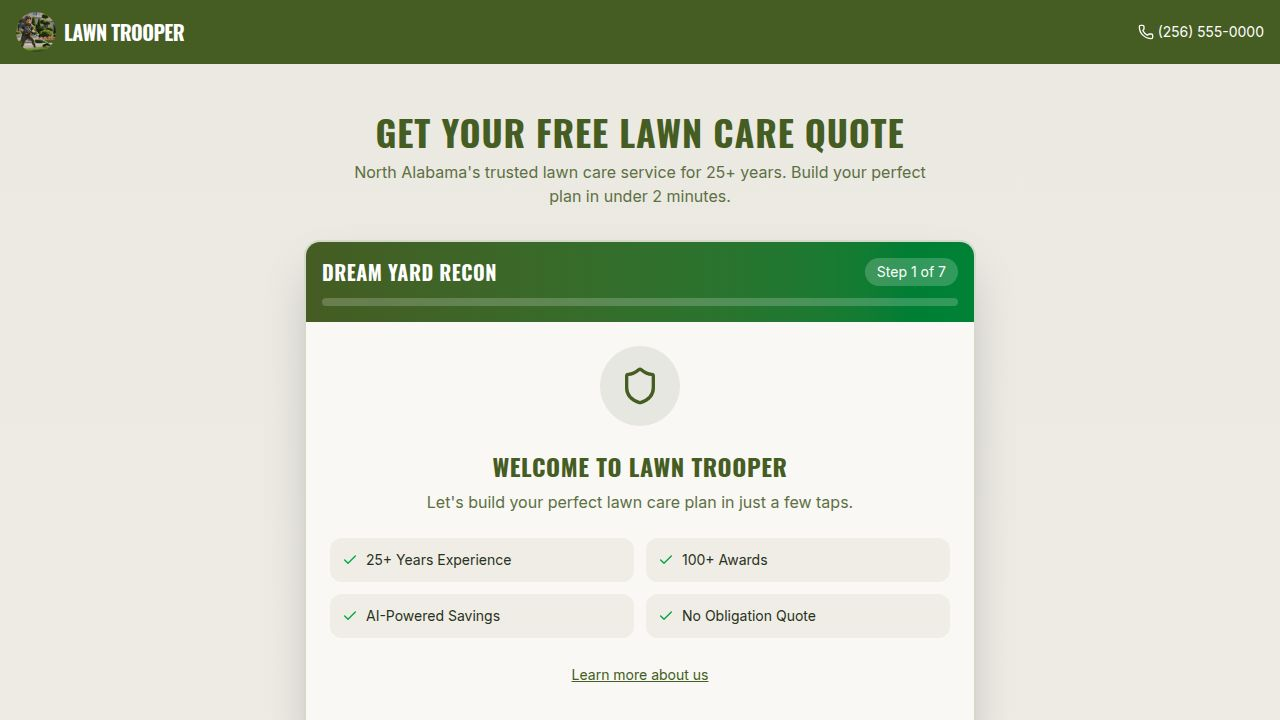
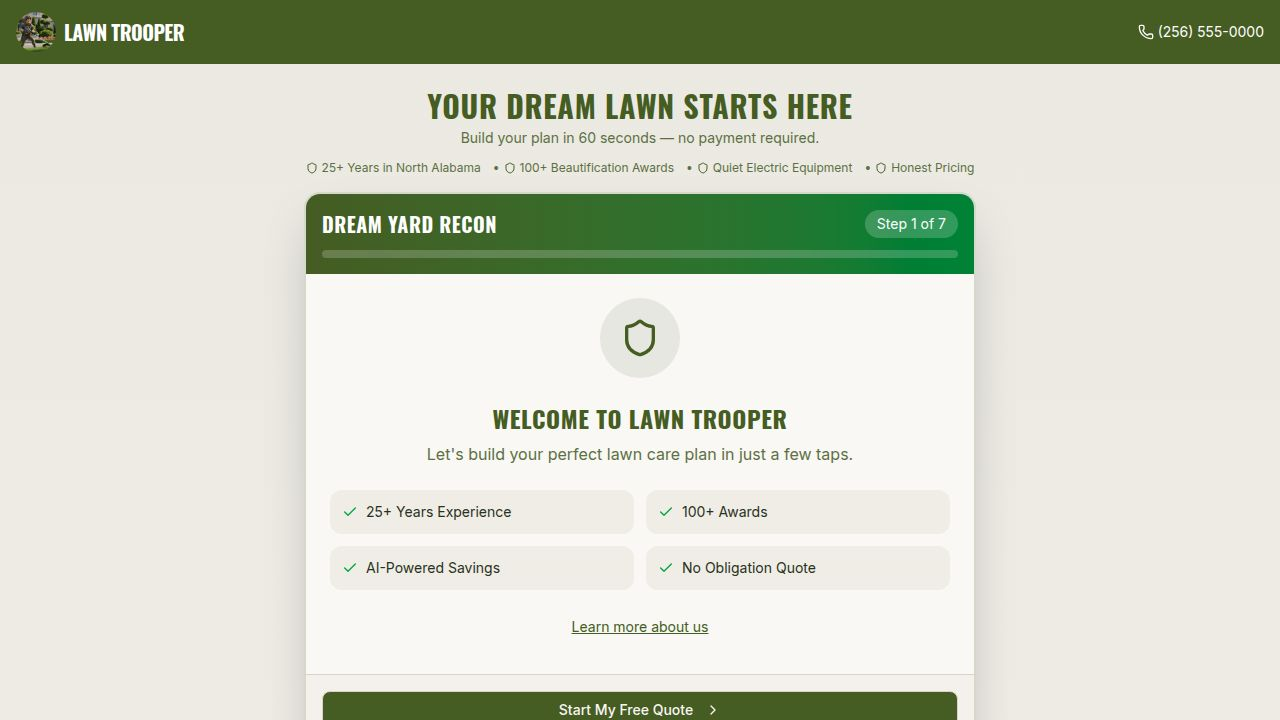
Improve website conversion rates by optimizing user experience
Update hero section with a concise headline and subtitle, introduce a compact trust bar below the hero, preselect the "Premium Patrol" plan with a "MOST POPULAR" label, hide advanced add-ons behind a toggle, simplify the lead form to require only name and phone number, and add privacy reassurance text.

Replit-Commit-Author: Agent
Replit-Commit-Session-Id: 95b4fb88-1a1b-43ec-b2f9-5c444428cc16
Replit-Commit-Checkpoint-Type: intermediate_checkpoint
Replit-Commit-Event-Id: e87d51ec-3ae1-4d72-9922-8ea08f182238
Replit-Commit-Screenshot-Url: https://storage.googleapis.com/screenshot-production-us-central1/272d6f3a-6d6e-4d82-9048-783487746b88/95b4fb88-1a1b-43ec-b2f9-5c444428cc16/SFL3Cc8
Replit-Helium-Checkpoint-Created: true

diff --git a/client/src/components/StreamlinedWizard.tsx b/client/src/components/StreamlinedWizard.tsx
@@ -4,6 +4,7 @@ import {
   Check, 
   ChevronRight, 
   ChevronLeft,
+  ChevronDown,
   Info,
   X,
   Star,
@@ -77,9 +78,10 @@ function InfoPopup({ open, onClose, title, content }: InfoPopupProps) {
 export default function StreamlinedWizard() {
   const [step, setStep] = useState(1);
   const [yardSize, setYardSize] = useState("");
-  const [plan, setPlan] = useState("");
+  const [plan, setPlan] = useState("premium");
   const [basicAddons, setBasicAddons] = useState<string[]>([]);
   const [premiumAddons, setPremiumAddons] = useState<string[]>([]);
+  const [showAdvancedAddons, setShowAdvancedAddons] = useState(false);
   const [term, setTerm] = useState<'1-year' | '2-year' | '3-year'>('1-year');
   const [payUpfront, setPayUpfront] = useState(false);
   const [promoCode, setPromoCode] = useState("");
@@ -142,7 +144,7 @@ export default function StreamlinedWizard() {
       case 3: return !!plan;
       case 4: return true;
       case 5: return true;
-      case 6: return name && (email || phone);
+      case 6: return name && phone;
       default: return true;
     }
   };
@@ -348,19 +350,27 @@ export default function StreamlinedWizard() {
                 {PLANS.map((p) => {
                   const isSelected = plan === p.id;
                   const isExecutive = p.id === 'executive';
+                  const isPremium = p.id === 'premium';
                   return (
                     <div key={p.id} className="relative">
                       <button
                         data-testid={`plan-${p.id}`}
                         onClick={() => setPlan(p.id)}
                         className={`w-full p-4 rounded-xl border-2 transition-all text-left relative ${
-                          isExecutive 
-                            ? `border-accent ${isSelected ? 'bg-accent/10 shadow-lg' : 'bg-accent/5'}`
-                            : isSelected
-                              ? 'border-primary bg-primary/10 shadow-lg'
-                              : 'border-border hover:border-primary/50'
+                          isPremium
+                            ? `border-primary ${isSelected ? 'bg-primary/10 shadow-lg ring-2 ring-primary/30' : 'bg-primary/5'}`
+                            : isExecutive 
+                              ? `border-accent ${isSelected ? 'bg-accent/10 shadow-lg' : 'bg-accent/5'}`
+                              : isSelected
+                                ? 'border-primary bg-primary/10 shadow-lg'
+                                : 'border-border hover:border-primary/50'
                         }`}
                       >
+                        {isPremium && (
+                          <div className="absolute -top-2 left-4 bg-primary text-white text-[10px] font-bold px-2 py-0.5 rounded-full">
+                            MOST POPULAR
+                          </div>
+                        )}
                         {isExecutive && (
                           <div className="absolute -top-2 right-4 bg-accent text-white text-[10px] font-bold px-2 py-0.5 rounded-full">
                             BEST VALUE
@@ -487,41 +497,53 @@ export default function StreamlinedWizard() {
 
                 {selectedPlan && selectedPlan.allowance.premium > 0 && (
                   <>
-                    <div className="text-xs font-bold text-accent uppercase tracking-wider mt-4 mb-2">
-                      Premium Add-ons ({premiumAddons.length}/{selectedPlan.allowance.premium} included free)
-                    </div>
-                    {PREMIUM_ADDONS.slice(0, 4).map((addon) => {
-                      const isSelected = premiumAddons.includes(addon.id);
-                      return (
-                        <div key={addon.id} className="flex items-center gap-2">
-                          <button
-                            data-testid={`addon-${addon.id}`}
-                            onClick={() => {
-                              if (isSelected) {
-                                setPremiumAddons(premiumAddons.filter(id => id !== addon.id));
-                              } else {
-                                setPremiumAddons([...premiumAddons, addon.id]);
-                              }
-                            }}
-                            className={`flex-1 p-3 rounded-lg border transition-all text-left flex items-center gap-3 ${
-                              isSelected
-                                ? 'border-accent bg-accent/10'
-                                : 'border-border hover:border-accent/50'
-                            }`}
-                          >
-                            <div className={`w-6 h-6 rounded border-2 flex items-center justify-center ${
-                              isSelected ? 'bg-accent border-accent' : 'border-muted-foreground'
-                            }`}>
-                              {isSelected && <Check className="w-4 h-4 text-white" />}
-                            </div>
-                            <div className="flex-1">
-                              <div className="font-medium text-sm">{addon.label}</div>
-                            </div>
-                            <Star className="w-4 h-4 text-accent" />
-                          </button>
+                    <button
+                      data-testid="toggle-advanced-addons"
+                      onClick={() => setShowAdvancedAddons(!showAdvancedAddons)}
+                      className="w-full mt-3 py-2 text-sm text-primary font-medium flex items-center justify-center gap-1 hover:underline"
+                    >
+                      {showAdvancedAddons ? "Hide" : "Show"} advanced options
+                      <ChevronDown className={`w-4 h-4 transition-transform ${showAdvancedAddons ? 'rotate-180' : ''}`} />
+                    </button>
+                    {showAdvancedAddons && (
+                      <>
+                        <div className="text-xs font-bold text-accent uppercase tracking-wider mt-2 mb-2">
+                          Premium Add-ons ({premiumAddons.length}/{selectedPlan.allowance.premium} included free)
                         </div>
-                      );
-                    })}
+                        {PREMIUM_ADDONS.slice(0, 4).map((addon) => {
+                          const isSelected = premiumAddons.includes(addon.id);
+                          return (
+                            <div key={addon.id} className="flex items-center gap-2">
+                              <button
+                                data-testid={`addon-${addon.id}`}
+                                onClick={() => {
+                                  if (isSelected) {
+                                    setPremiumAddons(premiumAddons.filter(id => id !== addon.id));
+                                  } else {
+                                    setPremiumAddons([...premiumAddons, addon.id]);
+                                  }
+                                }}
+                                className={`flex-1 p-3 rounded-lg border transition-all text-left flex items-center gap-3 ${
+                                  isSelected
+                                    ? 'border-accent bg-accent/10'
+                                    : 'border-border hover:border-accent/50'
+                                }`}
+                              >
+                                <div className={`w-6 h-6 rounded border-2 flex items-center justify-center ${
+                                  isSelected ? 'bg-accent border-accent' : 'border-muted-foreground'
+                                }`}>
+                                  {isSelected && <Check className="w-4 h-4 text-white" />}
+                                </div>
+                                <div className="flex-1">
+                                  <div className="font-medium text-sm">{addon.label}</div>
+                                </div>
+                                <Star className="w-4 h-4 text-accent" />
+                              </button>
+                            </div>
+                          );
+                        })}
+                      </>
+                    )}
                   </>
                 )}
               </div>
@@ -683,7 +705,7 @@ export default function StreamlinedWizard() {
                   />
                 </div>
                 <div>
-                  <Label htmlFor="email">Email</Label>
+                  <Label htmlFor="email">Email (optional)</Label>
                   <Input
                     id="email"
                     data-testid="input-email"
@@ -693,36 +715,14 @@ export default function StreamlinedWizard() {
                     placeholder="you@email.com"
                   />
                 </div>
-                <div>
-                  <Label htmlFor="address">Address (optional)</Label>
-                  <Input
-                    id="address"
-                    data-testid="input-address"
-                    value={address}
-                    onChange={(e) => setAddress(e.target.value)}
-                    placeholder="123 Main St, City, AL"
-                  />
-                </div>
-                <div>
-                  <Label htmlFor="promo">HOA/Promo Code</Label>
-                  <Input
-                    id="promo"
-                    data-testid="input-promo"
-                    value={promoCode}
-                    onChange={(e) => setPromoCode(e.target.value.toUpperCase())}
-                    placeholder="Enter code (optional)"
-                  />
-                  {promoValid && (
-                    <p data-testid="text-promo-valid" className="text-xs text-green-600 mt-1 flex items-center gap-1">
-                      <Check className="w-3 h-3" /> {promoDiscount}% HOA discount applied!
-                    </p>
-                  )}
-                </div>
               </div>
 
-              <p className="text-xs text-center text-muted-foreground">
-                No payment required. No obligation. We'll reach out to schedule your free Dream Yard Recon.
-              </p>
+              {/* Privacy Reassurance */}
+              <div data-testid="text-privacy" className="text-center bg-green-50 border border-green-200 rounded-lg p-3">
+                <p className="text-sm text-green-800 font-medium">
+                  No payment required. We never sell your info.
+                </p>
+              </div>
             </motion.div>
           )}
 

diff --git a/client/src/pages/simple-home.tsx b/client/src/pages/simple-home.tsx
@@ -1,7 +1,7 @@
 import React from "react";
 import StreamlinedWizard from "@/components/StreamlinedWizard";
 import { Shield, Mail, Phone, Leaf, Award, Cpu, Star, ChevronRight } from "lucide-react";
-import { HERO_CONTENT, WHY_LAWN_TROOPER, PLAN_SUMMARIES, TESTIMONIALS, FOOTER_CONTENT } from "@/data/content";
+import { HERO_CONTENT, TRUST_BAR_COMPACT, WHY_LAWN_TROOPER, PLAN_SUMMARIES, TESTIMONIALS, FOOTER_CONTENT } from "@/data/content";
 import { PLANS } from "@/data/plans";
 import heroMascot from "@assets/generated_images/camo_soldier_mascot_weedeating.png";
 
@@ -39,34 +39,29 @@ export default function SimpleHome() {
       </header>
 
       {/* Hero Section with Wizard */}
-      <main className="container mx-auto px-4 py-8 md:py-12">
-        <div className="text-center mb-8">
-          <h1 data-testid="text-main-title" className="text-3xl md:text-4xl font-heading font-bold text-primary mb-2">
+      <main className="container mx-auto px-4 py-4 md:py-6">
+        <div className="text-center mb-3">
+          <h1 data-testid="text-main-title" className="text-2xl md:text-3xl font-heading font-bold text-primary mb-1">
             {HERO_CONTENT.title}
           </h1>
-          <p data-testid="text-subtitle" className="text-muted-foreground max-w-xl mx-auto">
+          <p data-testid="text-subtitle" className="text-muted-foreground text-sm">
             {HERO_CONTENT.subtitle}
           </p>
         </div>
 
-        <div id="quote-wizard">
-          <StreamlinedWizard />
+        {/* Compact Trust Bar - directly under hero */}
+        <div className="flex flex-wrap justify-center gap-x-3 gap-y-1 text-xs text-muted-foreground mb-4">
+          {TRUST_BAR_COMPACT.map((item, i) => (
+            <span key={i} className="flex items-center gap-1">
+              {i > 0 && <span className="hidden sm:inline">•</span>}
+              <Shield className="w-3 h-3 text-primary" />
+              {item}
+            </span>
+          ))}
         </div>
 
-        {/* Trust Bar */}
-        <div className="mt-8 flex flex-wrap justify-center gap-4 text-sm text-muted-foreground">
-          <div className="flex items-center gap-1">
-            <Shield className="w-4 h-4 text-primary" />
-            <span>Licensed & Insured</span>
-          </div>
-          <div className="flex items-center gap-1">
-            <span>•</span>
-            <span>25+ Years in North Alabama</span>
-          </div>
-          <div className="flex items-center gap-1">
-            <span>•</span>
-            <span>100+ Beautification Awards</span>
-          </div>
+        <div id="quote-wizard">
+          <StreamlinedWizard />
         </div>
       </main>
 

diff --git a/client/src/data/content.ts b/client/src/data/content.ts
@@ -6,9 +6,16 @@
  */
 
 export const HERO_CONTENT = {
-  title: "Get Your Free Lawn Care Quote",
-  subtitle: "North Alabama's trusted lawn care service for 25+ years. Build your perfect plan in under 2 minutes.",
+  title: "Your Dream Lawn Starts Here",
+  subtitle: "Build your plan in 60 seconds — no payment required.",
 };
+
+export const TRUST_BAR_COMPACT = [
+  "25+ Years in North Alabama",
+  "100+ Beautification Awards",
+  "Quiet Electric Equipment",
+  "Honest Pricing"
+];
 
 export const WHY_LAWN_TROOPER = {
   sectionTitle: "Why Lawn Trooper?",
